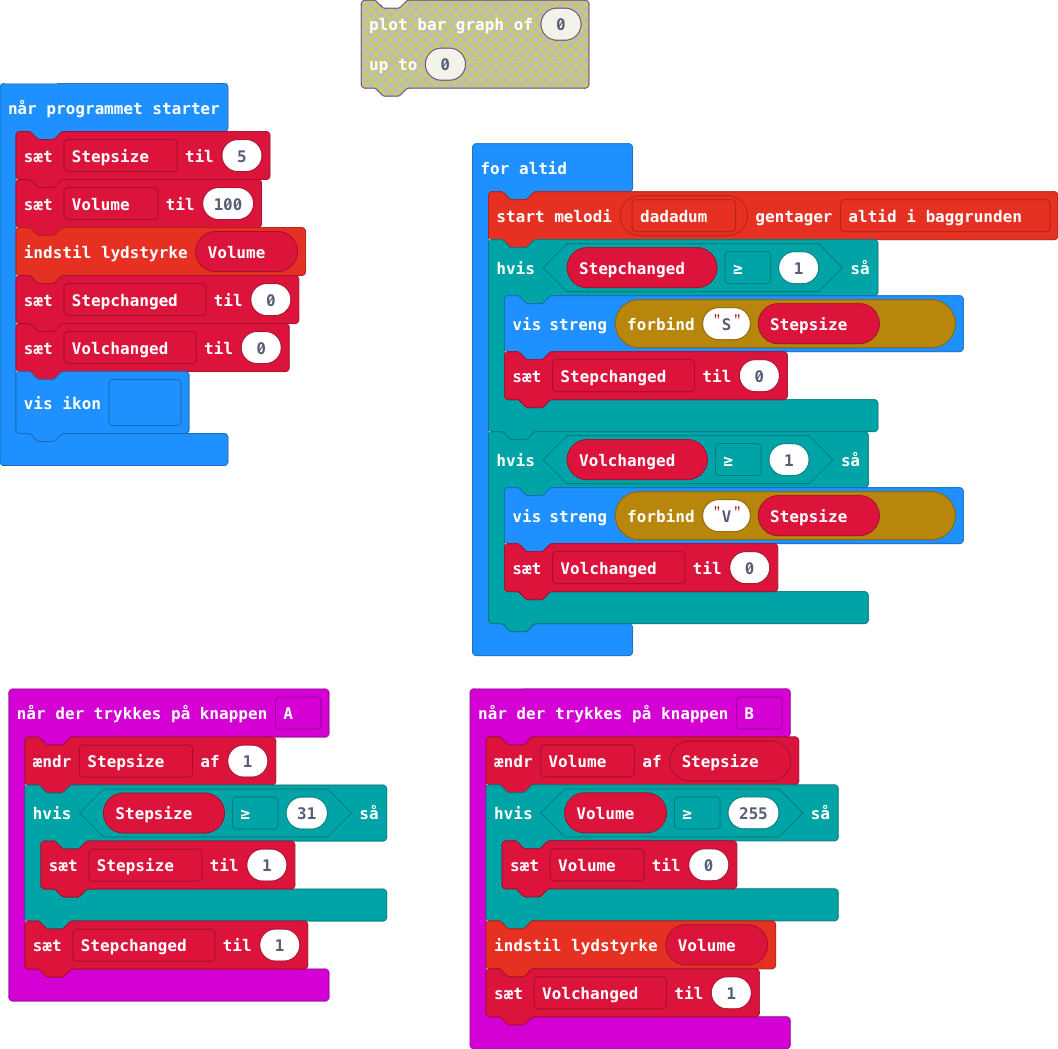
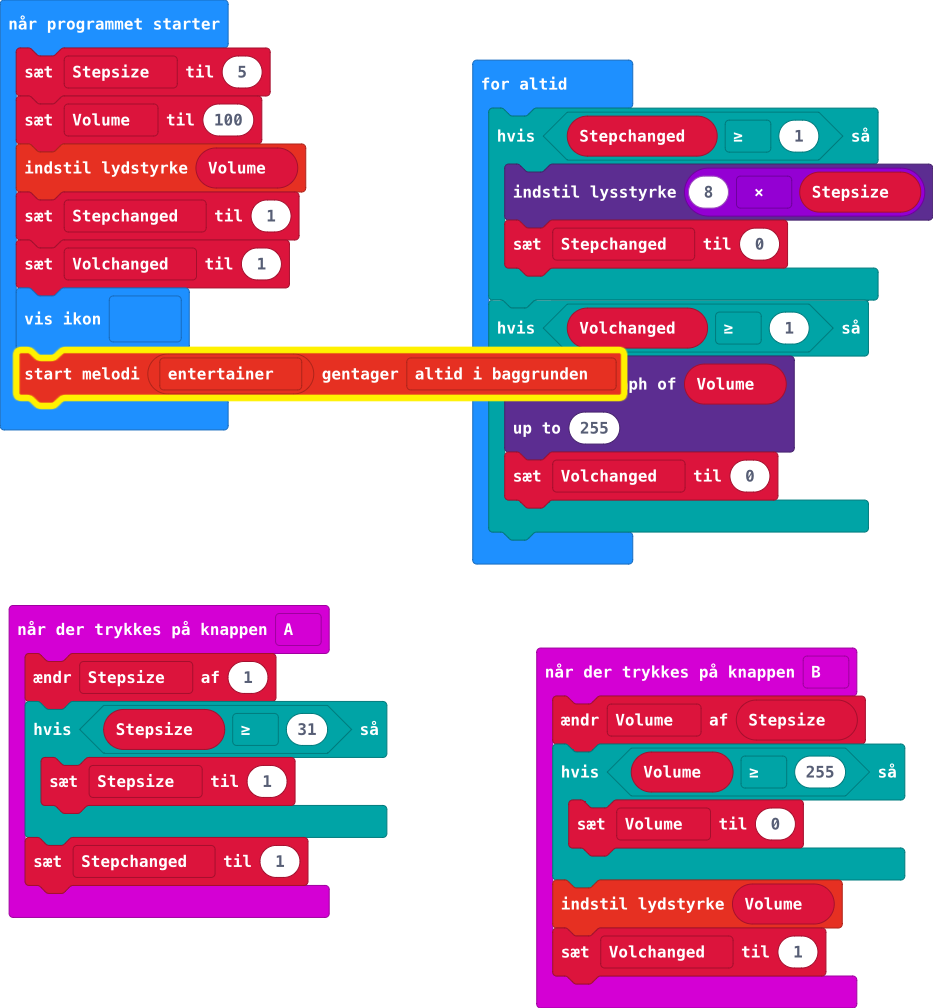
Opdater main.blocks, main.ts

diff --git a/main.ts b/main.ts
@@ -20,17 +20,20 @@ let Stepsize = 0
 Stepsize = 5
 Volume = 100
 music.setVolume(Volume)
-Stepchanged = 0
-Volchanged = 0
+Stepchanged = 1
+Volchanged = 1
 basic.showIcon(IconNames.Yes)
+music.startMelody(music.builtInMelody(Melodies.Entertainer), MelodyOptions.ForeverInBackground)
 basic.forever(function () {
-    music.startMelody(music.builtInMelody(Melodies.Dadadadum), MelodyOptions.ForeverInBackground)
     if (Stepchanged >= 1) {
-        basic.showString("S" + Stepsize)
+        led.setBrightness(8 * Stepsize)
         Stepchanged = 0
     }
     if (Volchanged >= 1) {
-        basic.showString("V" + Stepsize)
+        led.plotBarGraph(
+        Volume,
+        255
+        )
         Volchanged = 0
     }
 })
